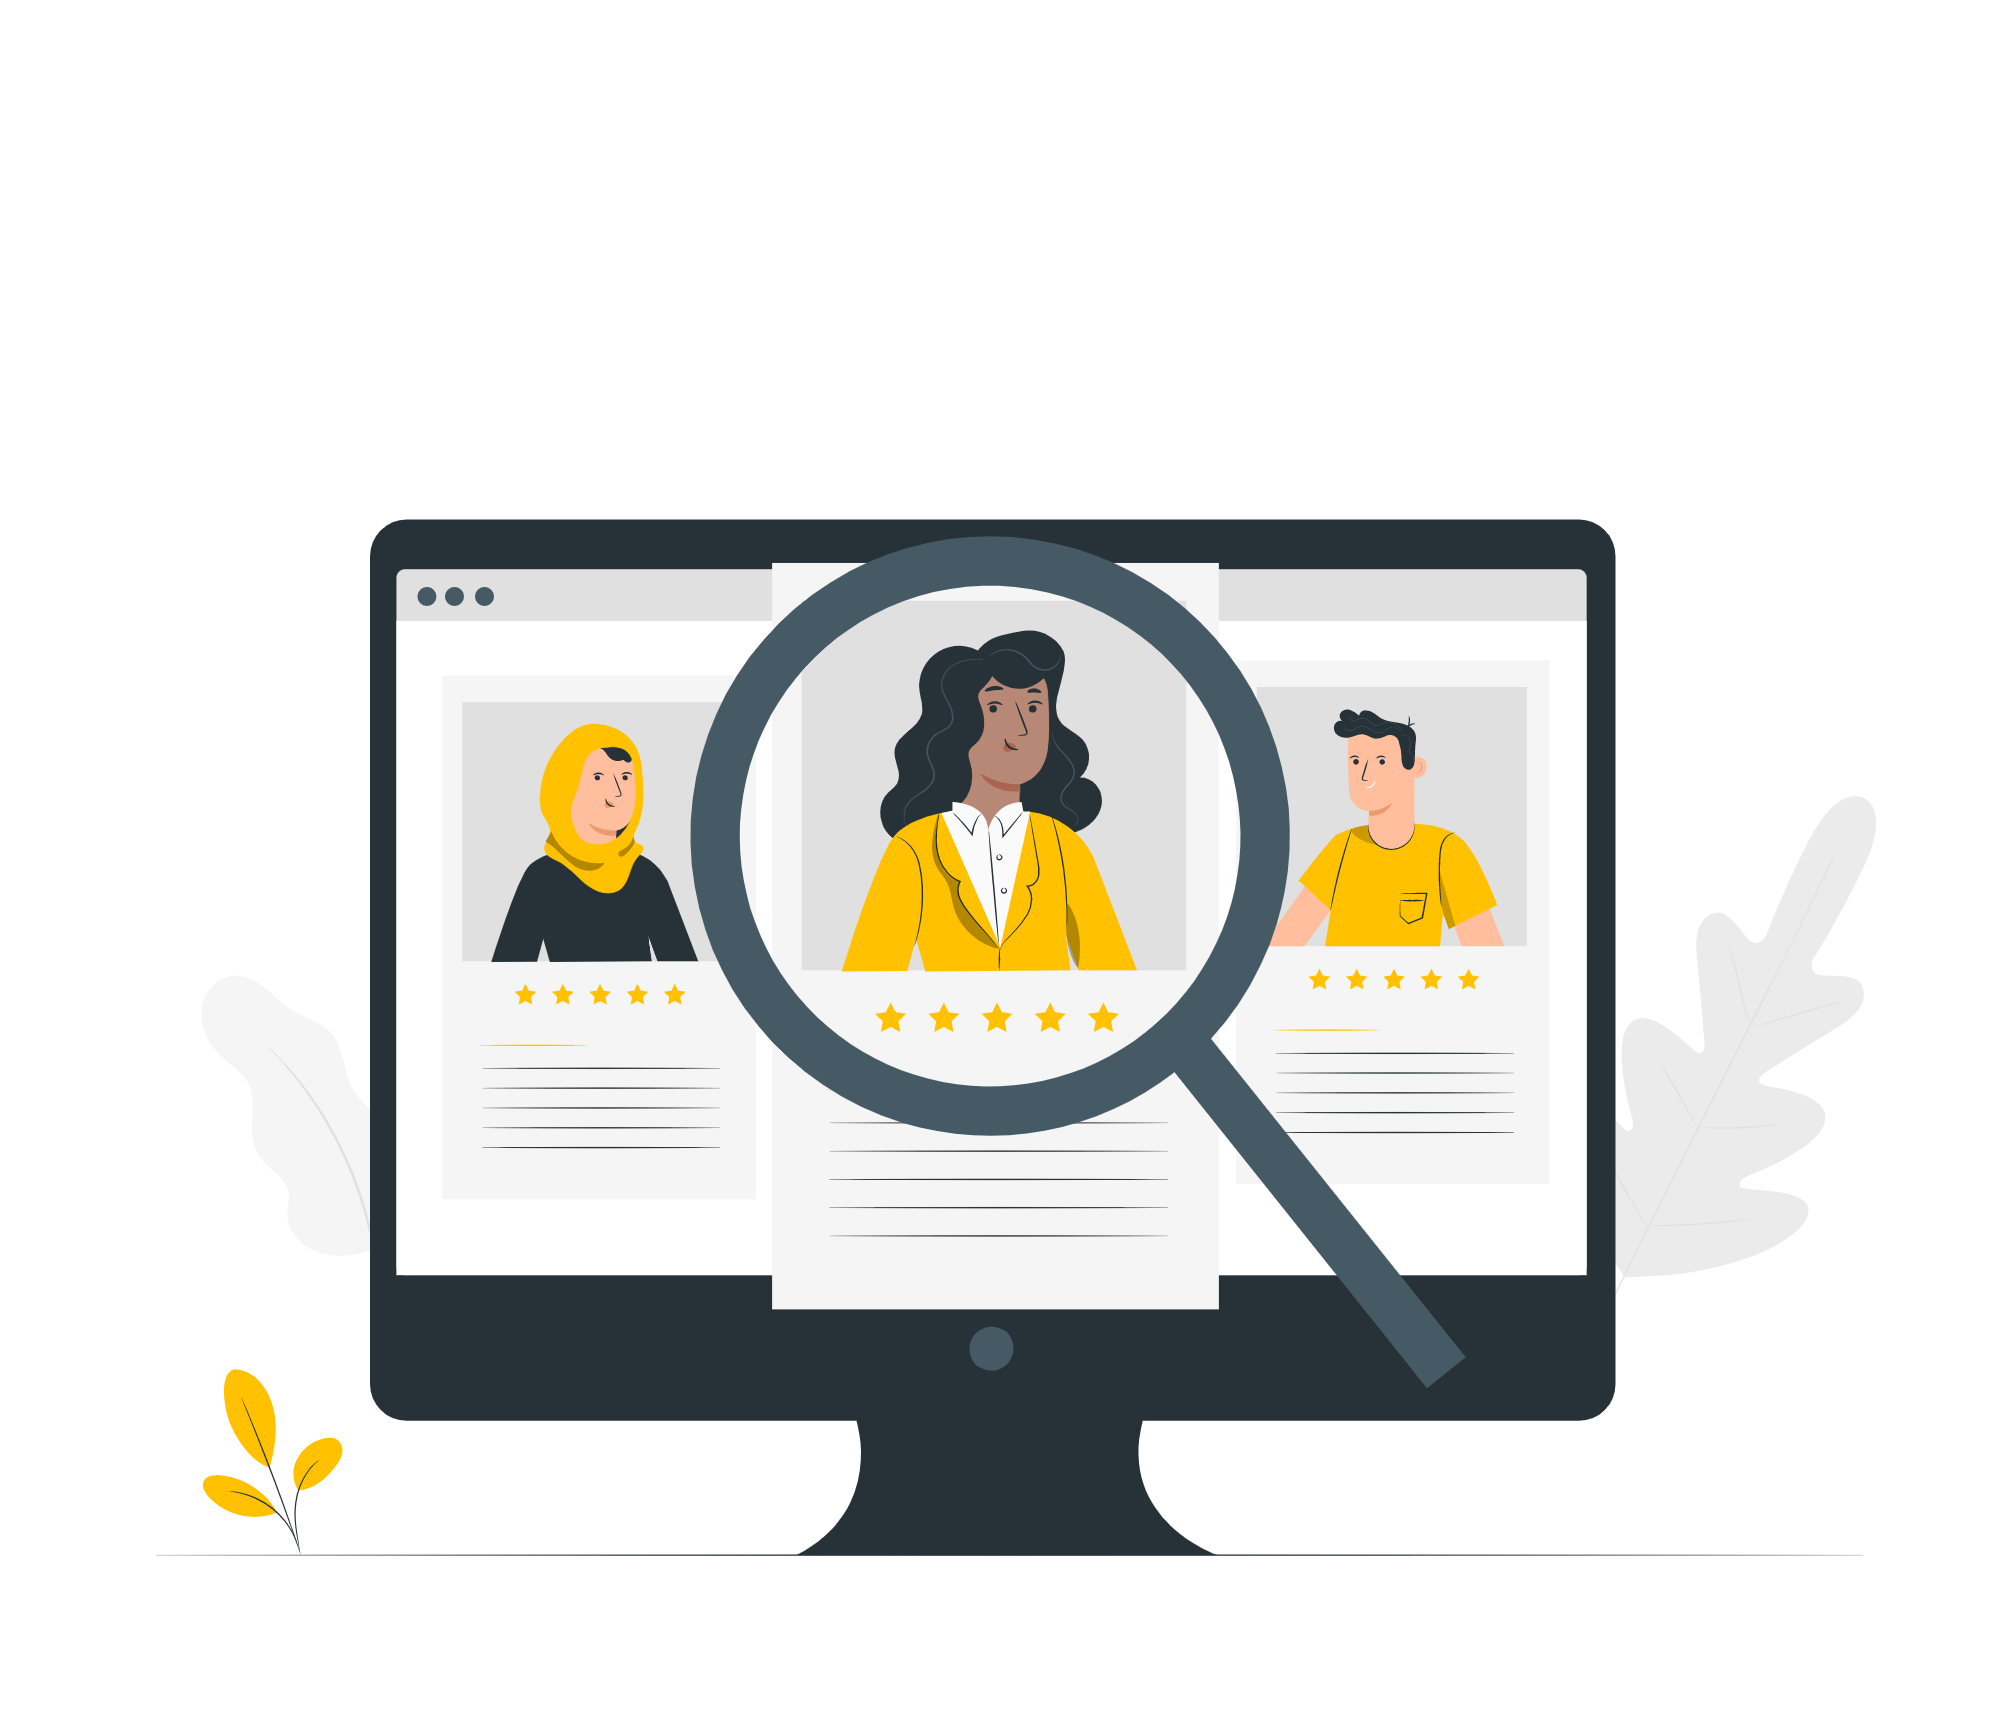
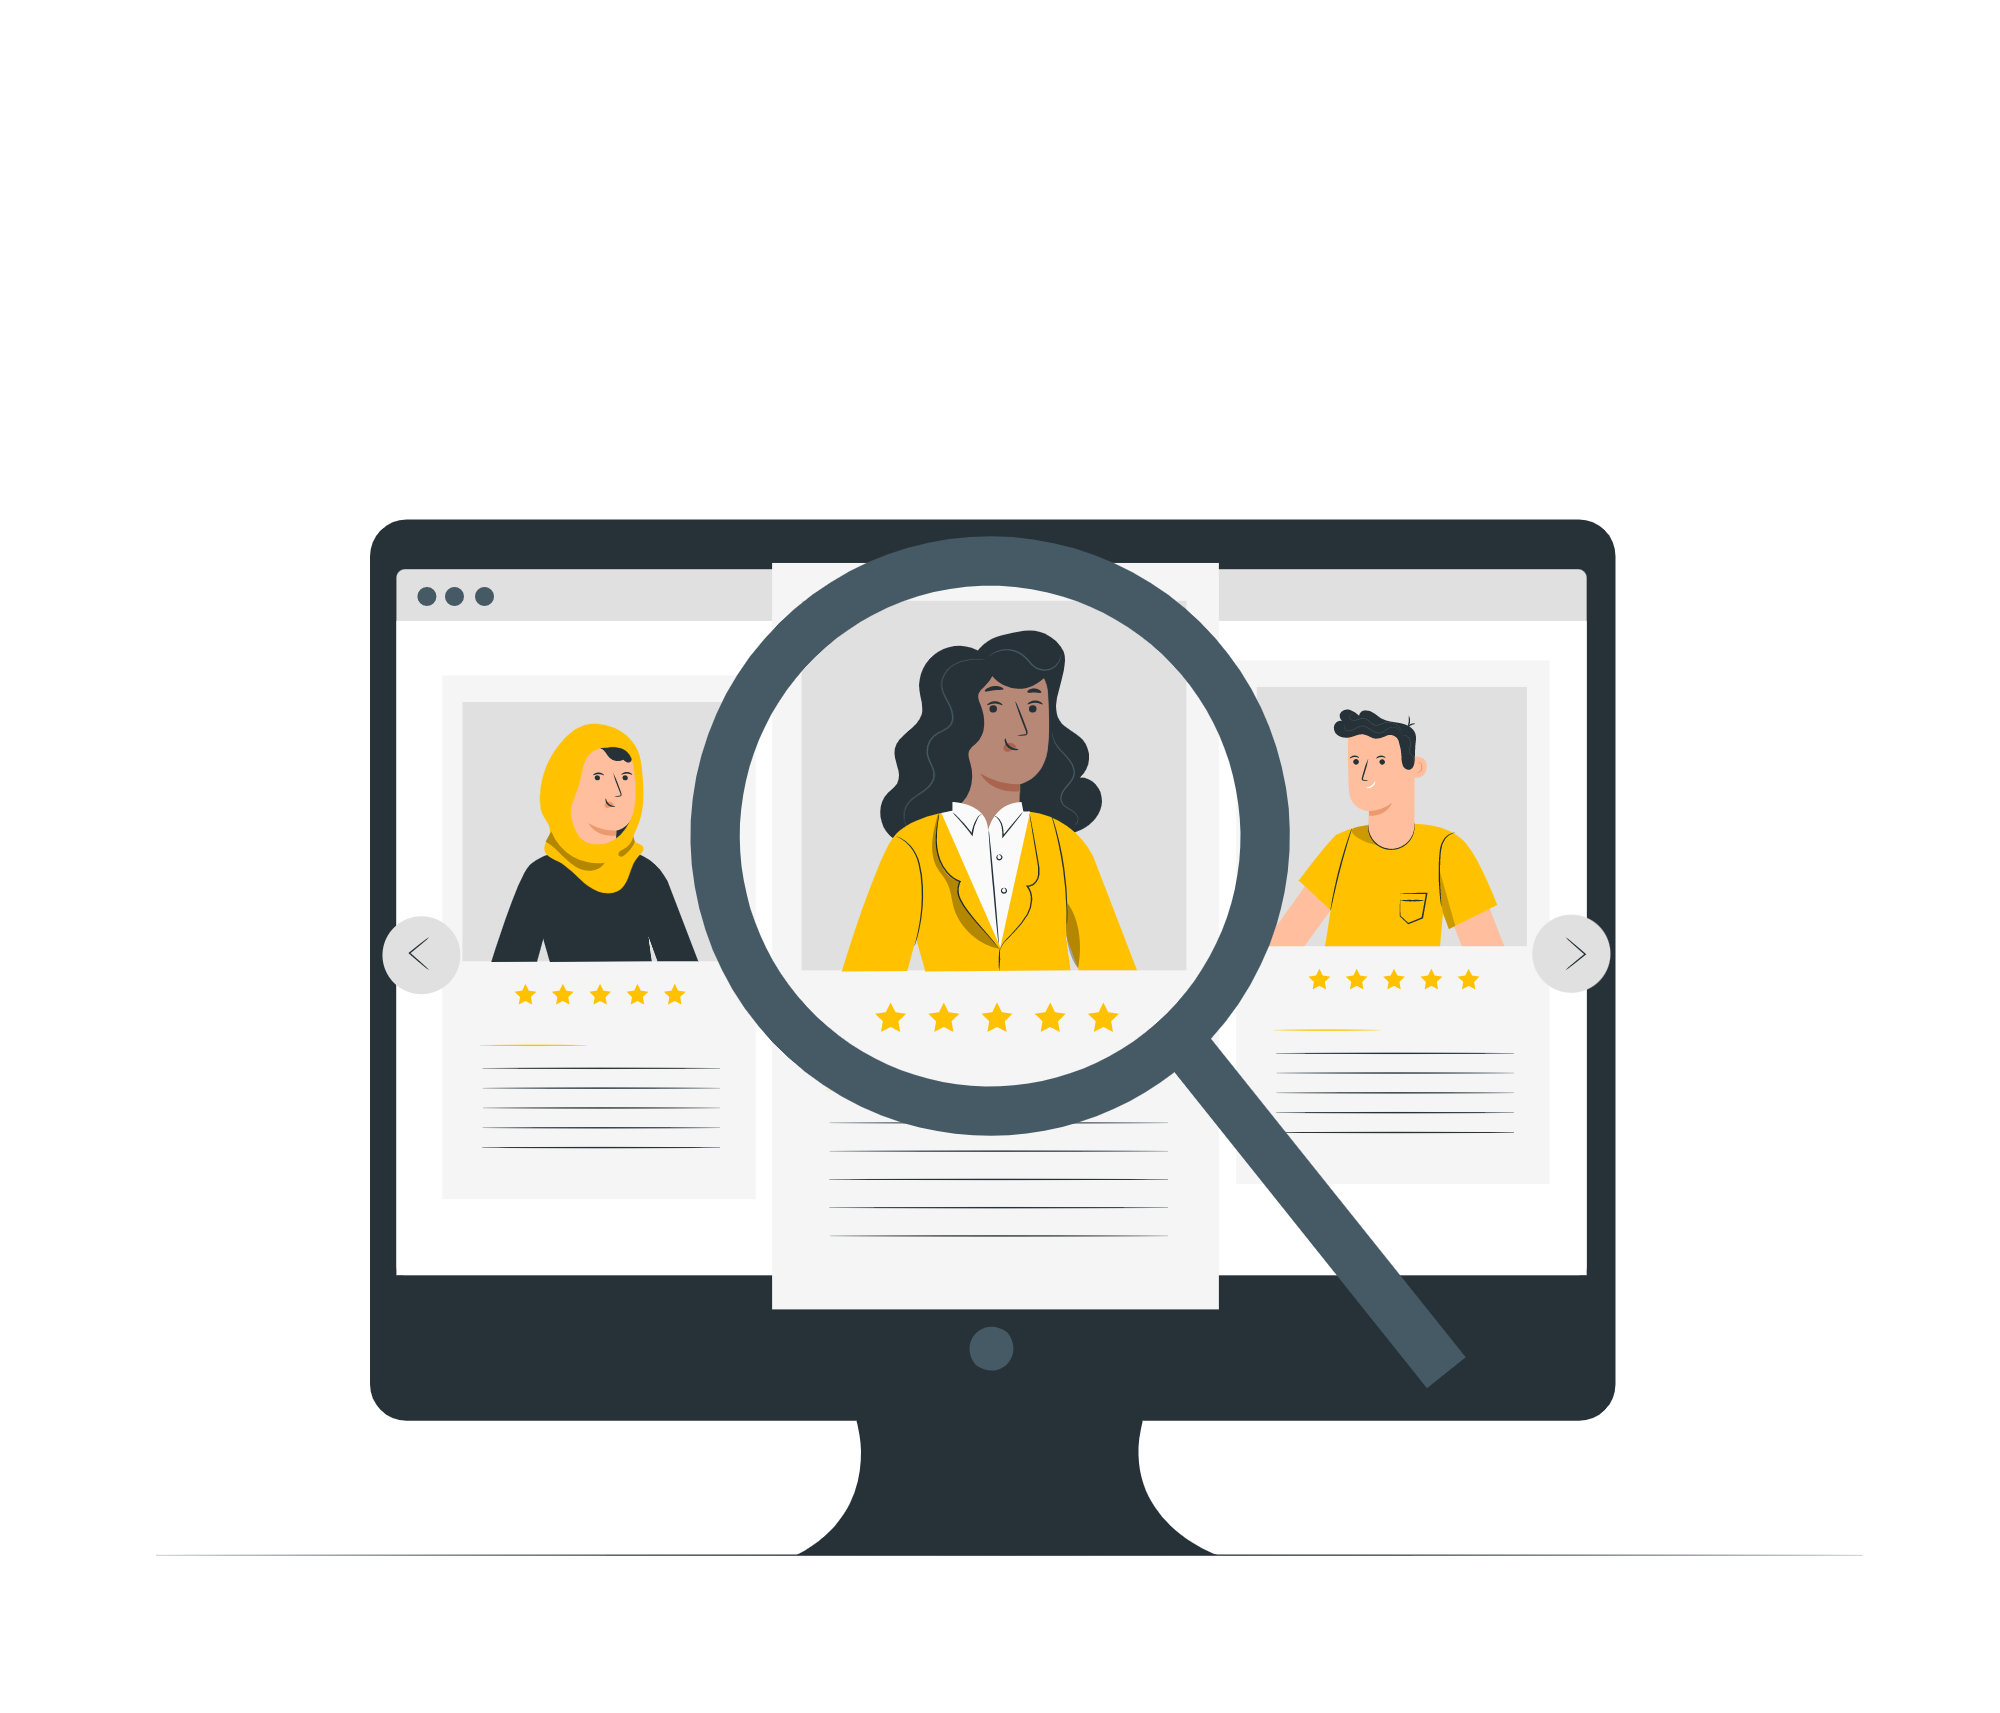
img home sem flores

Changed region(s): [[0.093, 0.8044, 0.186, 0.8973], [0.775, 0.526, 0.806, 0.5879], [0.186, 0.526, 0.217, 0.5879]]

diff --git a/src/pages/Home/Home.module.css b/src/pages/Home/Home.module.css
@@ -49,7 +49,9 @@
     top: 60%;
     display: flex;
     align-items: center;
-    justify-content: space-around;
+    justify-content: space-between;
+    padding-right: 7%;
+    padding-left: 7%;
   }
 
   /* remove underlinne dos links  */
